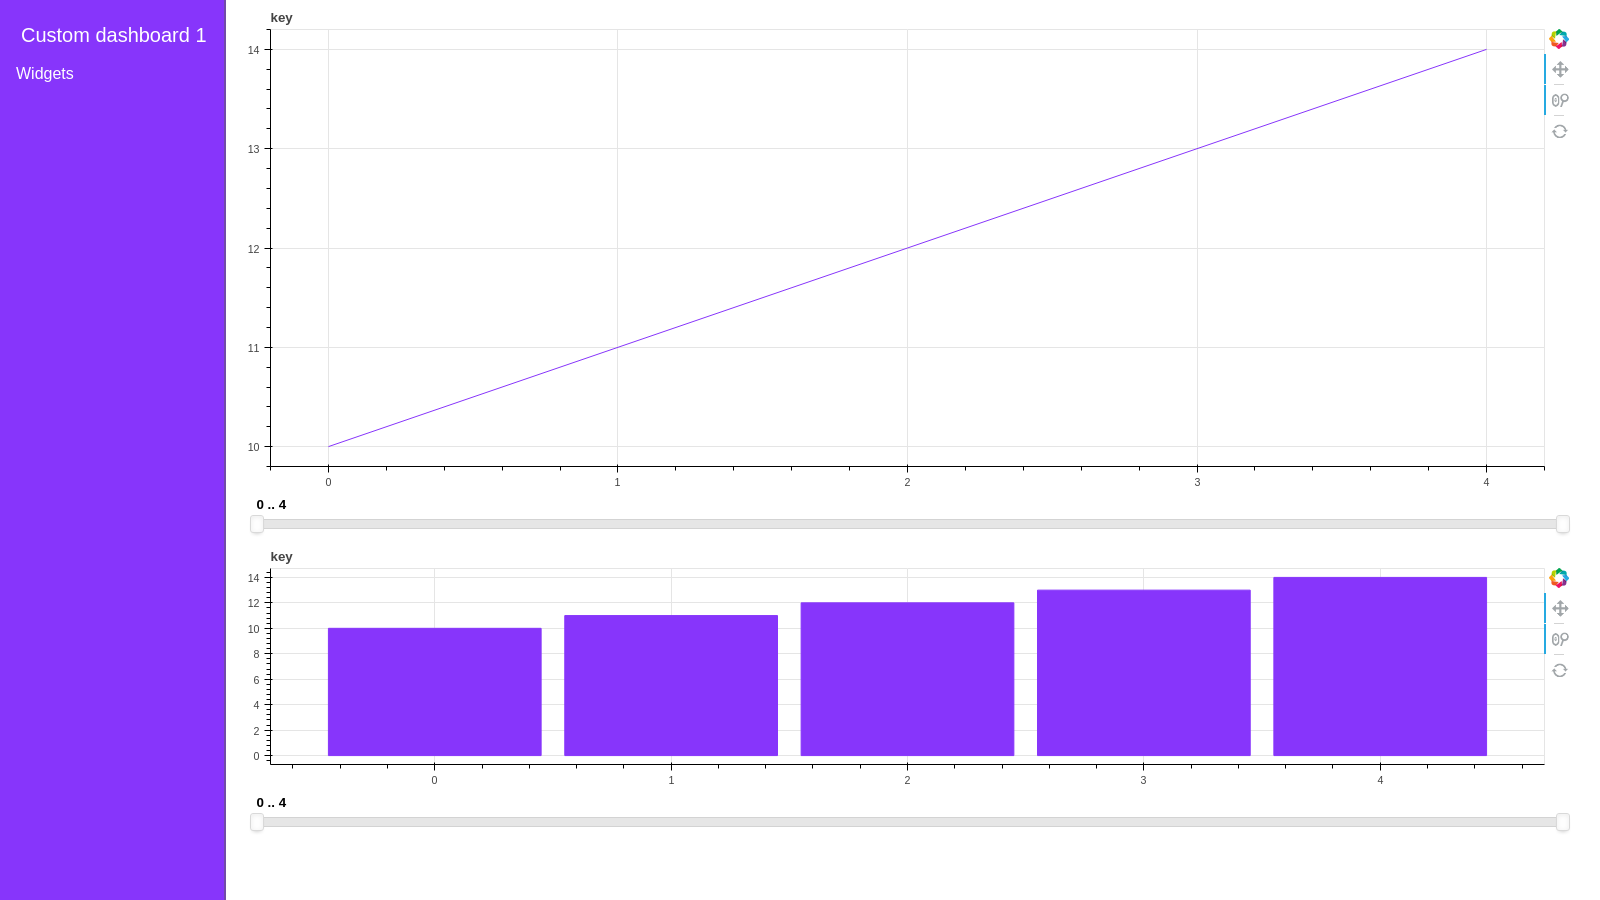
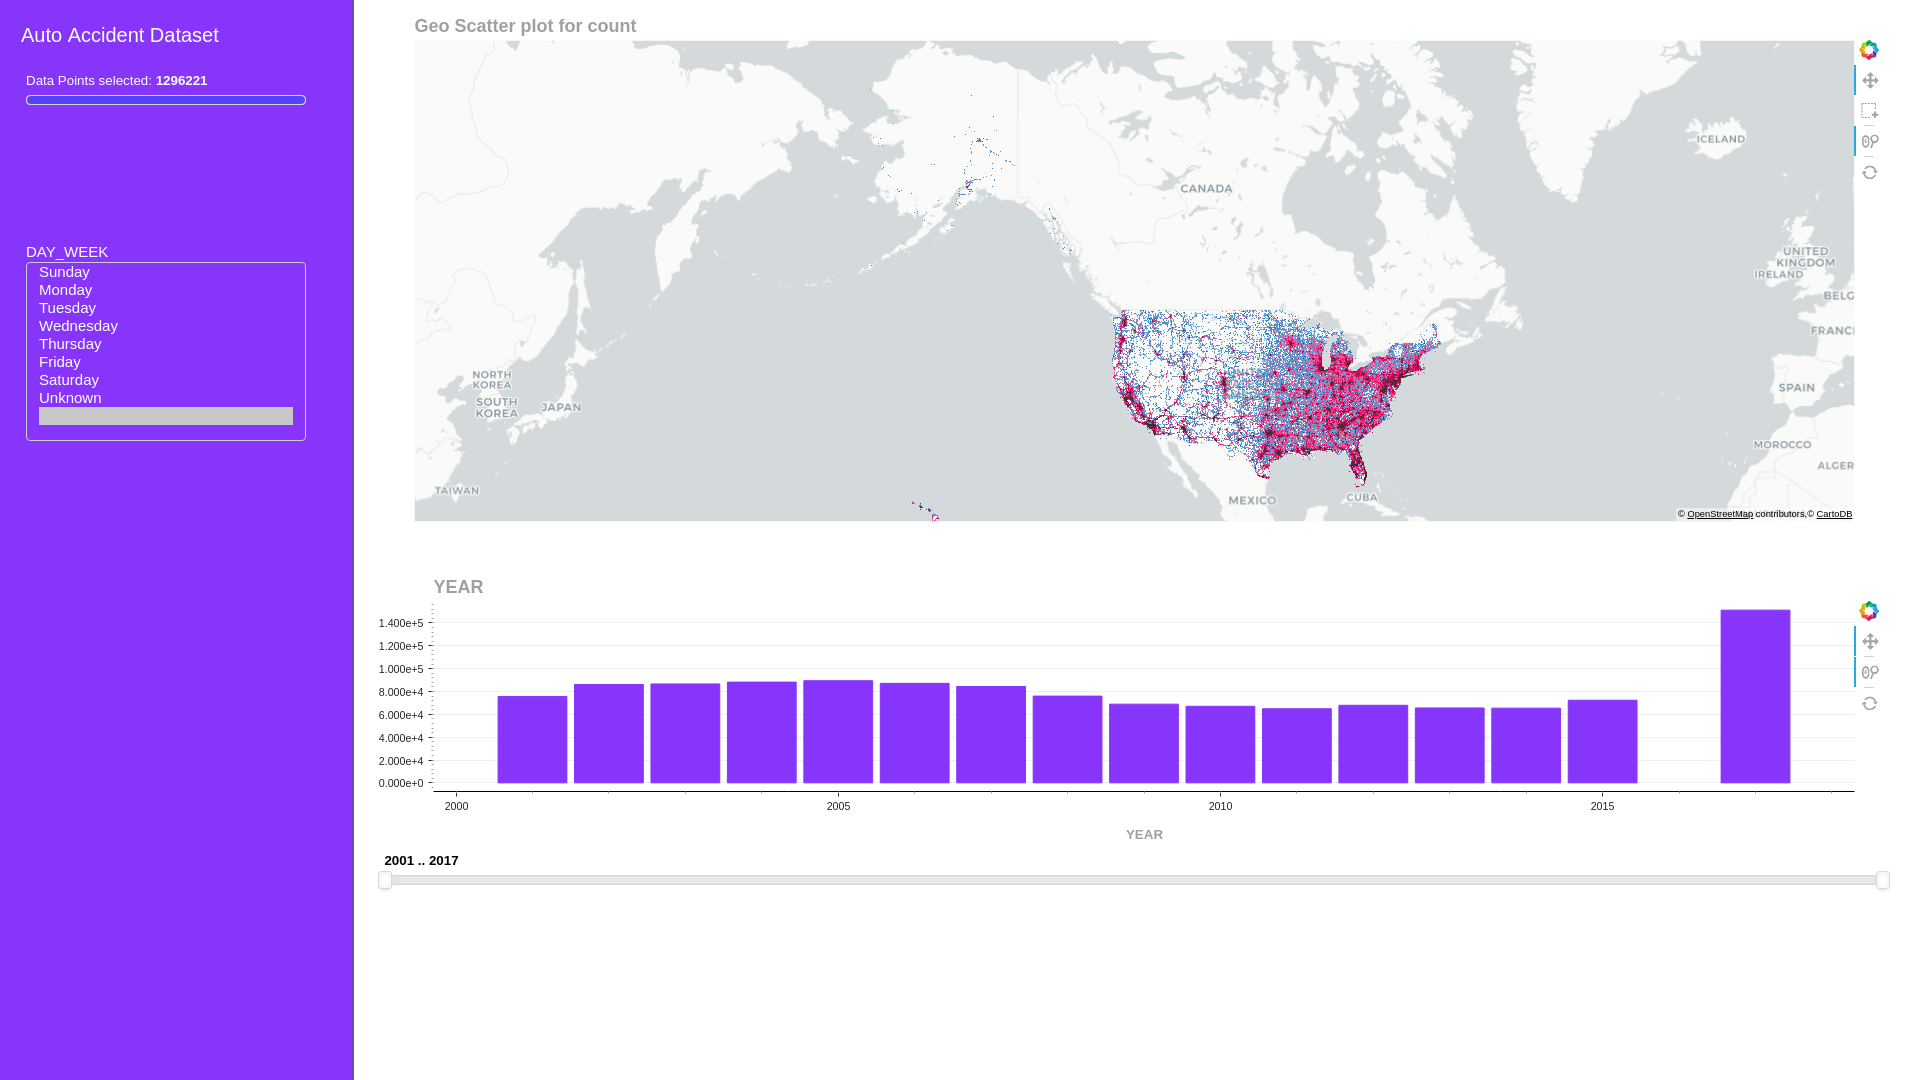
updated root readme

diff --git a/README.md b/README.md
@@ -39,21 +39,36 @@ The original version (0.1) of cuXfilter, most known for the backend powering the
 ## Get Started
 
 ```python
-from cuXfilter import charts, DataFrame
-from cuXfilter.layouts import layout_1, layout_2
-import cudf
+import cuXfilter
+from cuXfilter import charts
+from cuXfilter.layouts import feature_and_base
 
-df = cudf.DataFrame({'key': [0, 1, 2, 3, 4], 'val':[float(i + 10) for i in range(5)]})
+#update data_dir if you have downloaded datasets elsewhere
+DATA_DIR = './data'
+from cuXfilter.sampledata import datasets_check
+datasets_check('auto_accidents', base_dir=DATA_DIR)
 
-#create cuXfilter DataFrame
-cux_df = DataFrame.from_dataframe(df)
-line_chart = charts.bokeh.line('key', 'val', data_points=5)
-bar_chart = charts.bokeh.bar('key', 'val', data_points=5)
+cux_df = cuXfilter.DataFrame.from_arrow('./data/auto_accidents.arrow')
+cux_df.data['ST_CASE'] = cux_df.data['ST_CASE'].astype('float64')
 
-charts = [line_chart, bar_chart]
+label_map = {1: 'Sunday',    2: 'Monday',    3: 'Tuesday',    4: 'Wednesday',   5: 'Thursday',    6: 'Friday',    7: 'Saturday',    9: 'Unknown'}
 
-#create the dashboard object
-d = cux_df.dashboard(charts, title='Custom dashboard', data_size_widget=True)
+gtc_demo_red_blue_palette = [ (49,130,189), (107,174,214), (123, 142, 216), (226,103,152), (255,0,104) , (50,50,50) ]
+
+from bokeh.tile_providers import get_provider as gp
+tile_provider = gp('CARTODBPOSITRON')
+
+#declare charts
+chart1 = charts.cudatashader.scatter_geo(x='dropoff_x', y='dropoff_y', aggregate_col='ST_CASE',
+                                        tile_provider=tile_provider,
+                                         color_palette=gtc_demo_red_blue_palette,)
+
+chart2 = charts.panel_widgets.multi_select('YEAR')
+
+chart3 = charts.bokeh.bar('DAY_WEEK', x_label_map=label_map)
+
+#declare dashboard
+d = cux_df.dashboard([chart1, chart3, chart2], layout=cuXfilter.layouts.feature_and_base,theme = cuXfilter.themes.rapids, title='Auto Accident Dataset')
 
 #display the dashboard as a web-app(interactive)
 d.show()
@@ -81,29 +96,119 @@ Troubleshooting help can be found [here](https://rapidsai.github.io/cuxfilter/in
 
 ## Installation
 
+> You need to have RAPIDS (cudf) installed for cuXfilter to work
+
+
+1. If installing within the rapidai DOCKER container, follow the following instructions
+
 ```bash
 
-git clone https://github.com/rapidsai/cuxfilter
-cd python
+Before you start juypter lab, you need to install cuxfilter and cudatashader.  In terminal, when you start docker, please run the following commands:
 
-#if you want to install it in an isolated environment
+#Get to the /rapidsai folder, up one level, where the libraries live.  List files to verify (you'll see cuspatal, cuml, cdf, etc)
+cd /rapids
+
+#Clone cuxfilter here
+git clone https://github.com/rapidsai/cuxfilter
+
+#Drop into cuxfilter's python library folder, make, and install
+cd cuxfilter/python
+make
+pip install -e .
+
+#Get back to /rapidsai folder
+cd /rapids
+
+#clone cudatashader
+git clone https://github.com/rapidsai/cudatashader
+
+Drop into cudatashader folder and install
+cd cudatashader
+pip install -e .
+
+# start a jupyter lab environment
+jupyter lab
+
+#To run the bokeh server in a jupyter lab
+
+'''
+1. expose an additional port for server, lets call it bokeh_port.
+2. Install jupyterlab dependencies
+'''
+conda install -c conda-forge jupyterlab
+jupyter labextension install @pyviz/jupyterlab_pyviz
+jupyter labextension install jupyterlab_bokeh
+
+'''
+3.running the server
+'''
+#enter ip address without http://
+#current port is the port at which jupyterlab is running
+d.app(url='ip.addr:current_port', port=bokeh_port)
+# OR for a separate web app
+d.show('ip.addr:bokeh_port')
+
+```
+
+
+
+2. If installing in a conda environment
+
+
+```bash
+
+#Clone cuxfilter here
+git clone https://github.com/rapidsai/cuxfilter
+
+#create a conda environment
 conda create -n test_env
 source activate test_env
 
-#install dependencies
+
+#Drop into cuxfilter's python library folder, make, and install
+cd cuxfilter/python
 make
-
-#install cuXfilter-py, while in the root folder
 pip install -e .
 
-#install cuDatashader
+#Get back to /rapidsai folder
+cd ..
+cd ..
+
+#clone cudatashader
 git clone https://github.com/rapidsai/cudatashader
-cd cuviz
+
+Drop into cudatashader folder and install
+cd cudatashader
 pip install -e .
 
-#run notebooks
-jupyter notebook
 ```
+
+## Download Datasets
+
+1. Auto download datasets
+
+The notebooks inside `python/notebooks` already have a check function which verifies whether the example dataset is downloaded, and downloads it if it's not.
+
+2. Download manually
+
+While in the directory you want the datasets to be saved, execute the following
+
+```bash
+#go the the environment where cuXfilter is installed. Skip if in a docker container
+source activate test_env
+
+#download and extract the datasets
+python -c "from cuXfilter.sampledata import datasets_check; datasets_check(base_dir='./')"
+```
+
+Individual links:
+
+- Download the mortgage dataset from [here](https://docs.rapids.ai/datasets/mortgage-viz-data)
+
+- Nyc taxi dataset from [here](https://s3.amazonaws.com/nyc-tlc/trip+data/yellow_tripdata_2015-01.csv)
+
+- Auto dataset from [here](https://s3.us-east-2.amazonaws.com/rapidsai-data/viz-data/auto_accidents.arrow.gz)
+
 
 ## Guides and Layout Templates
 
